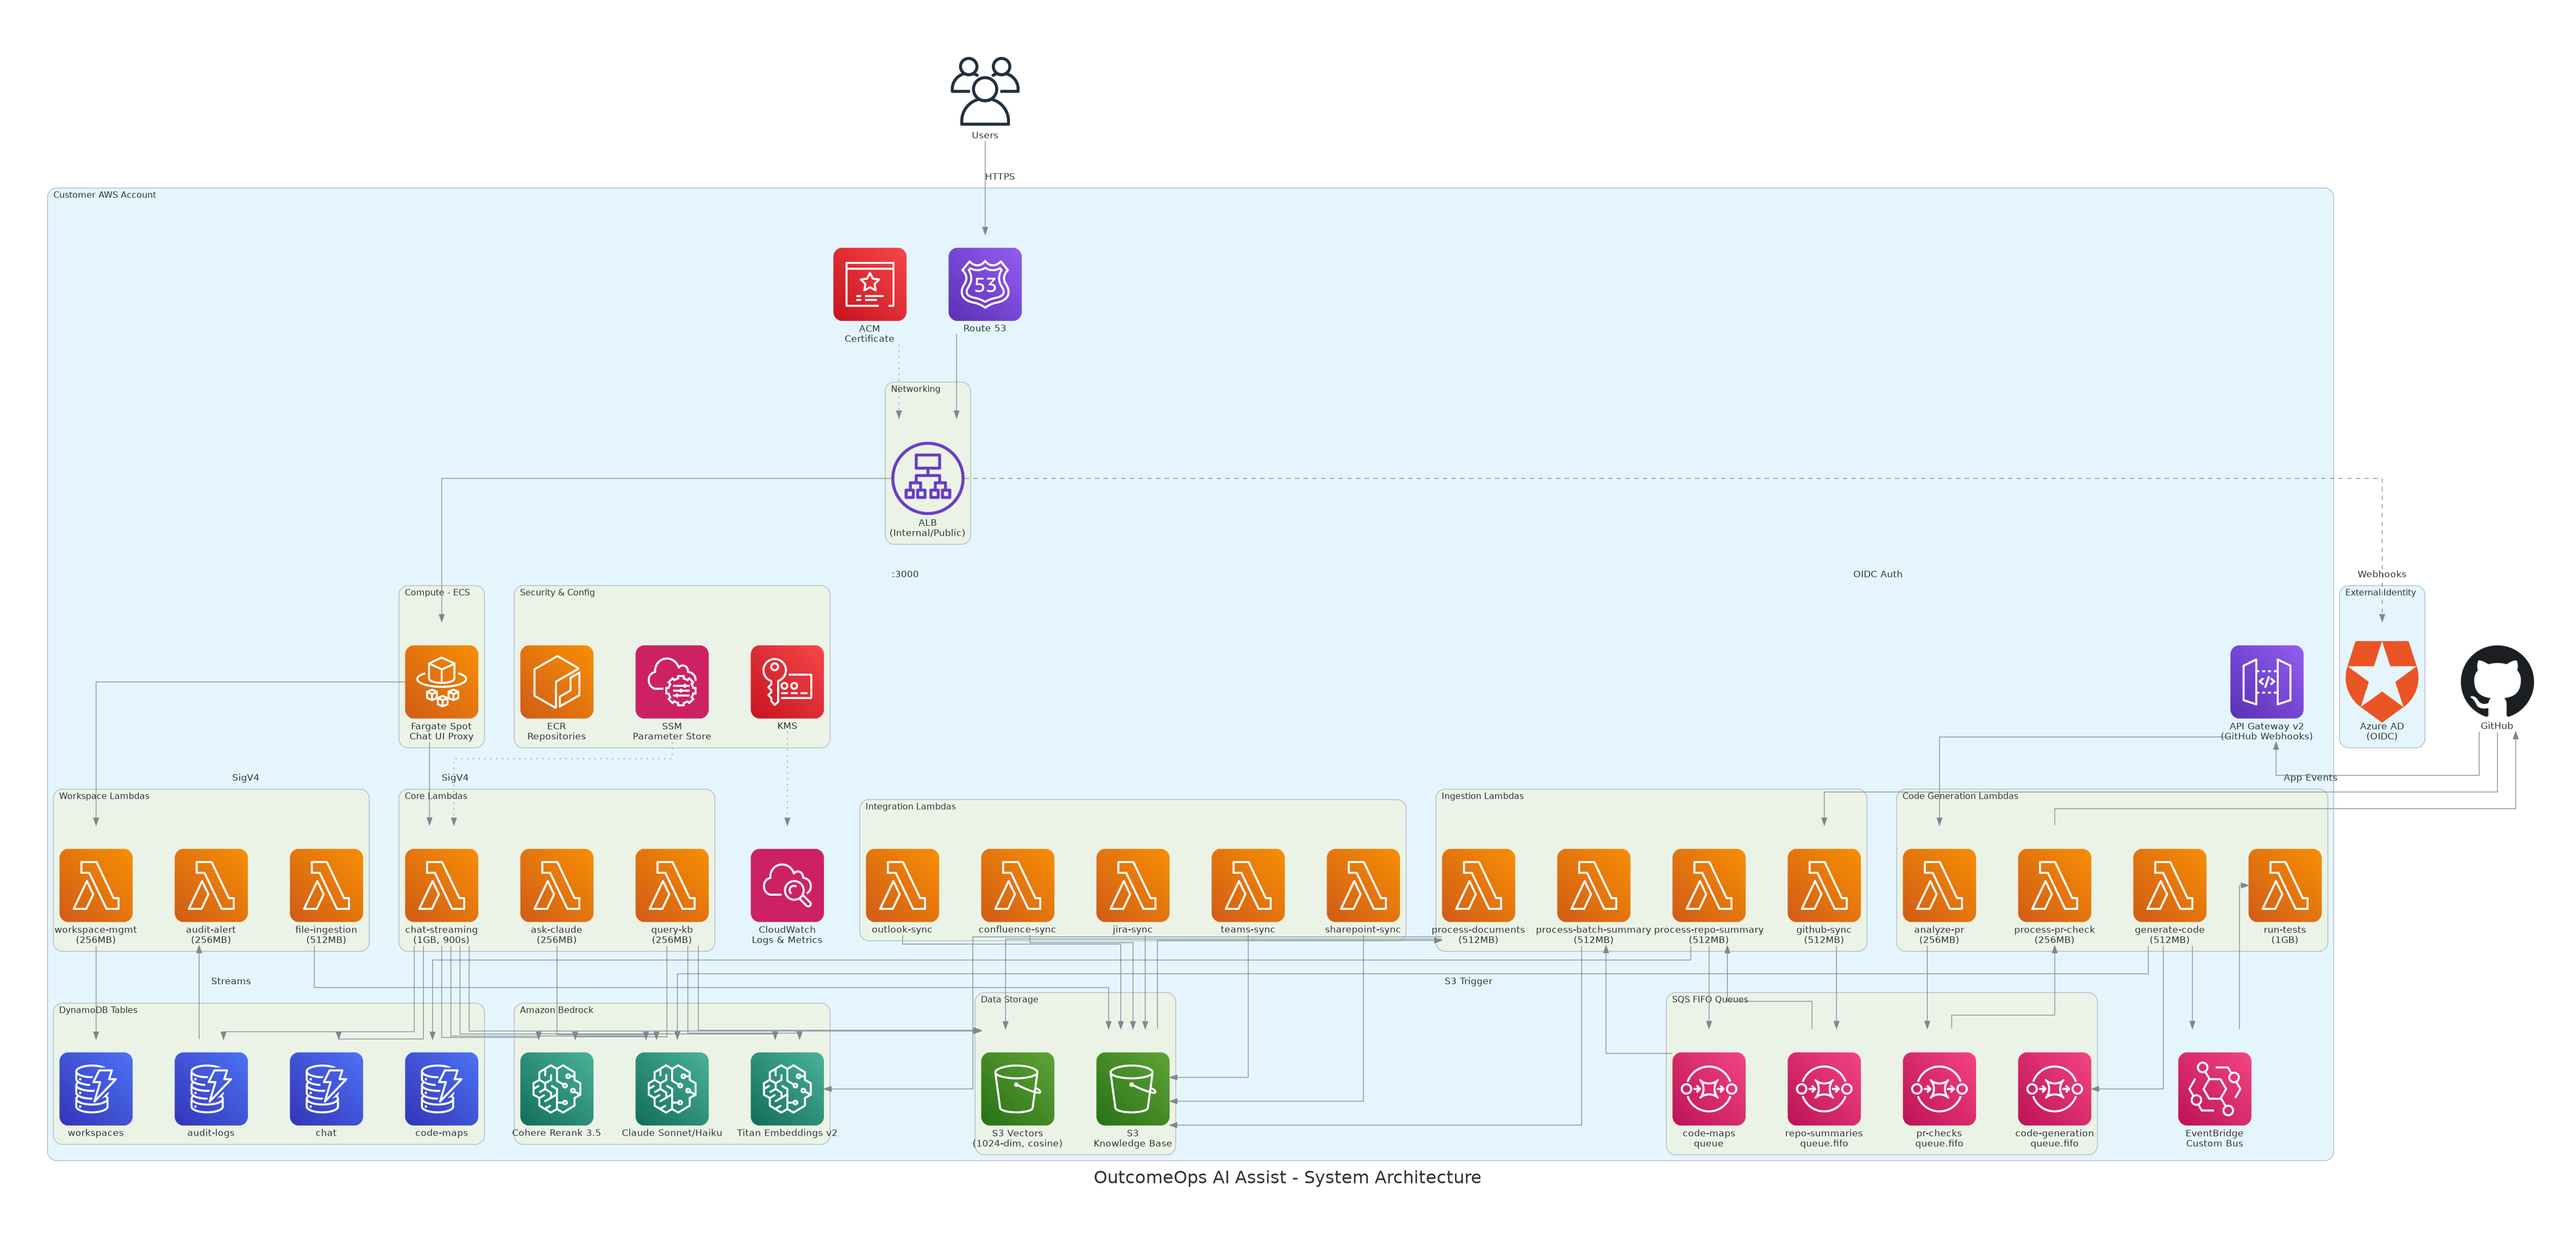
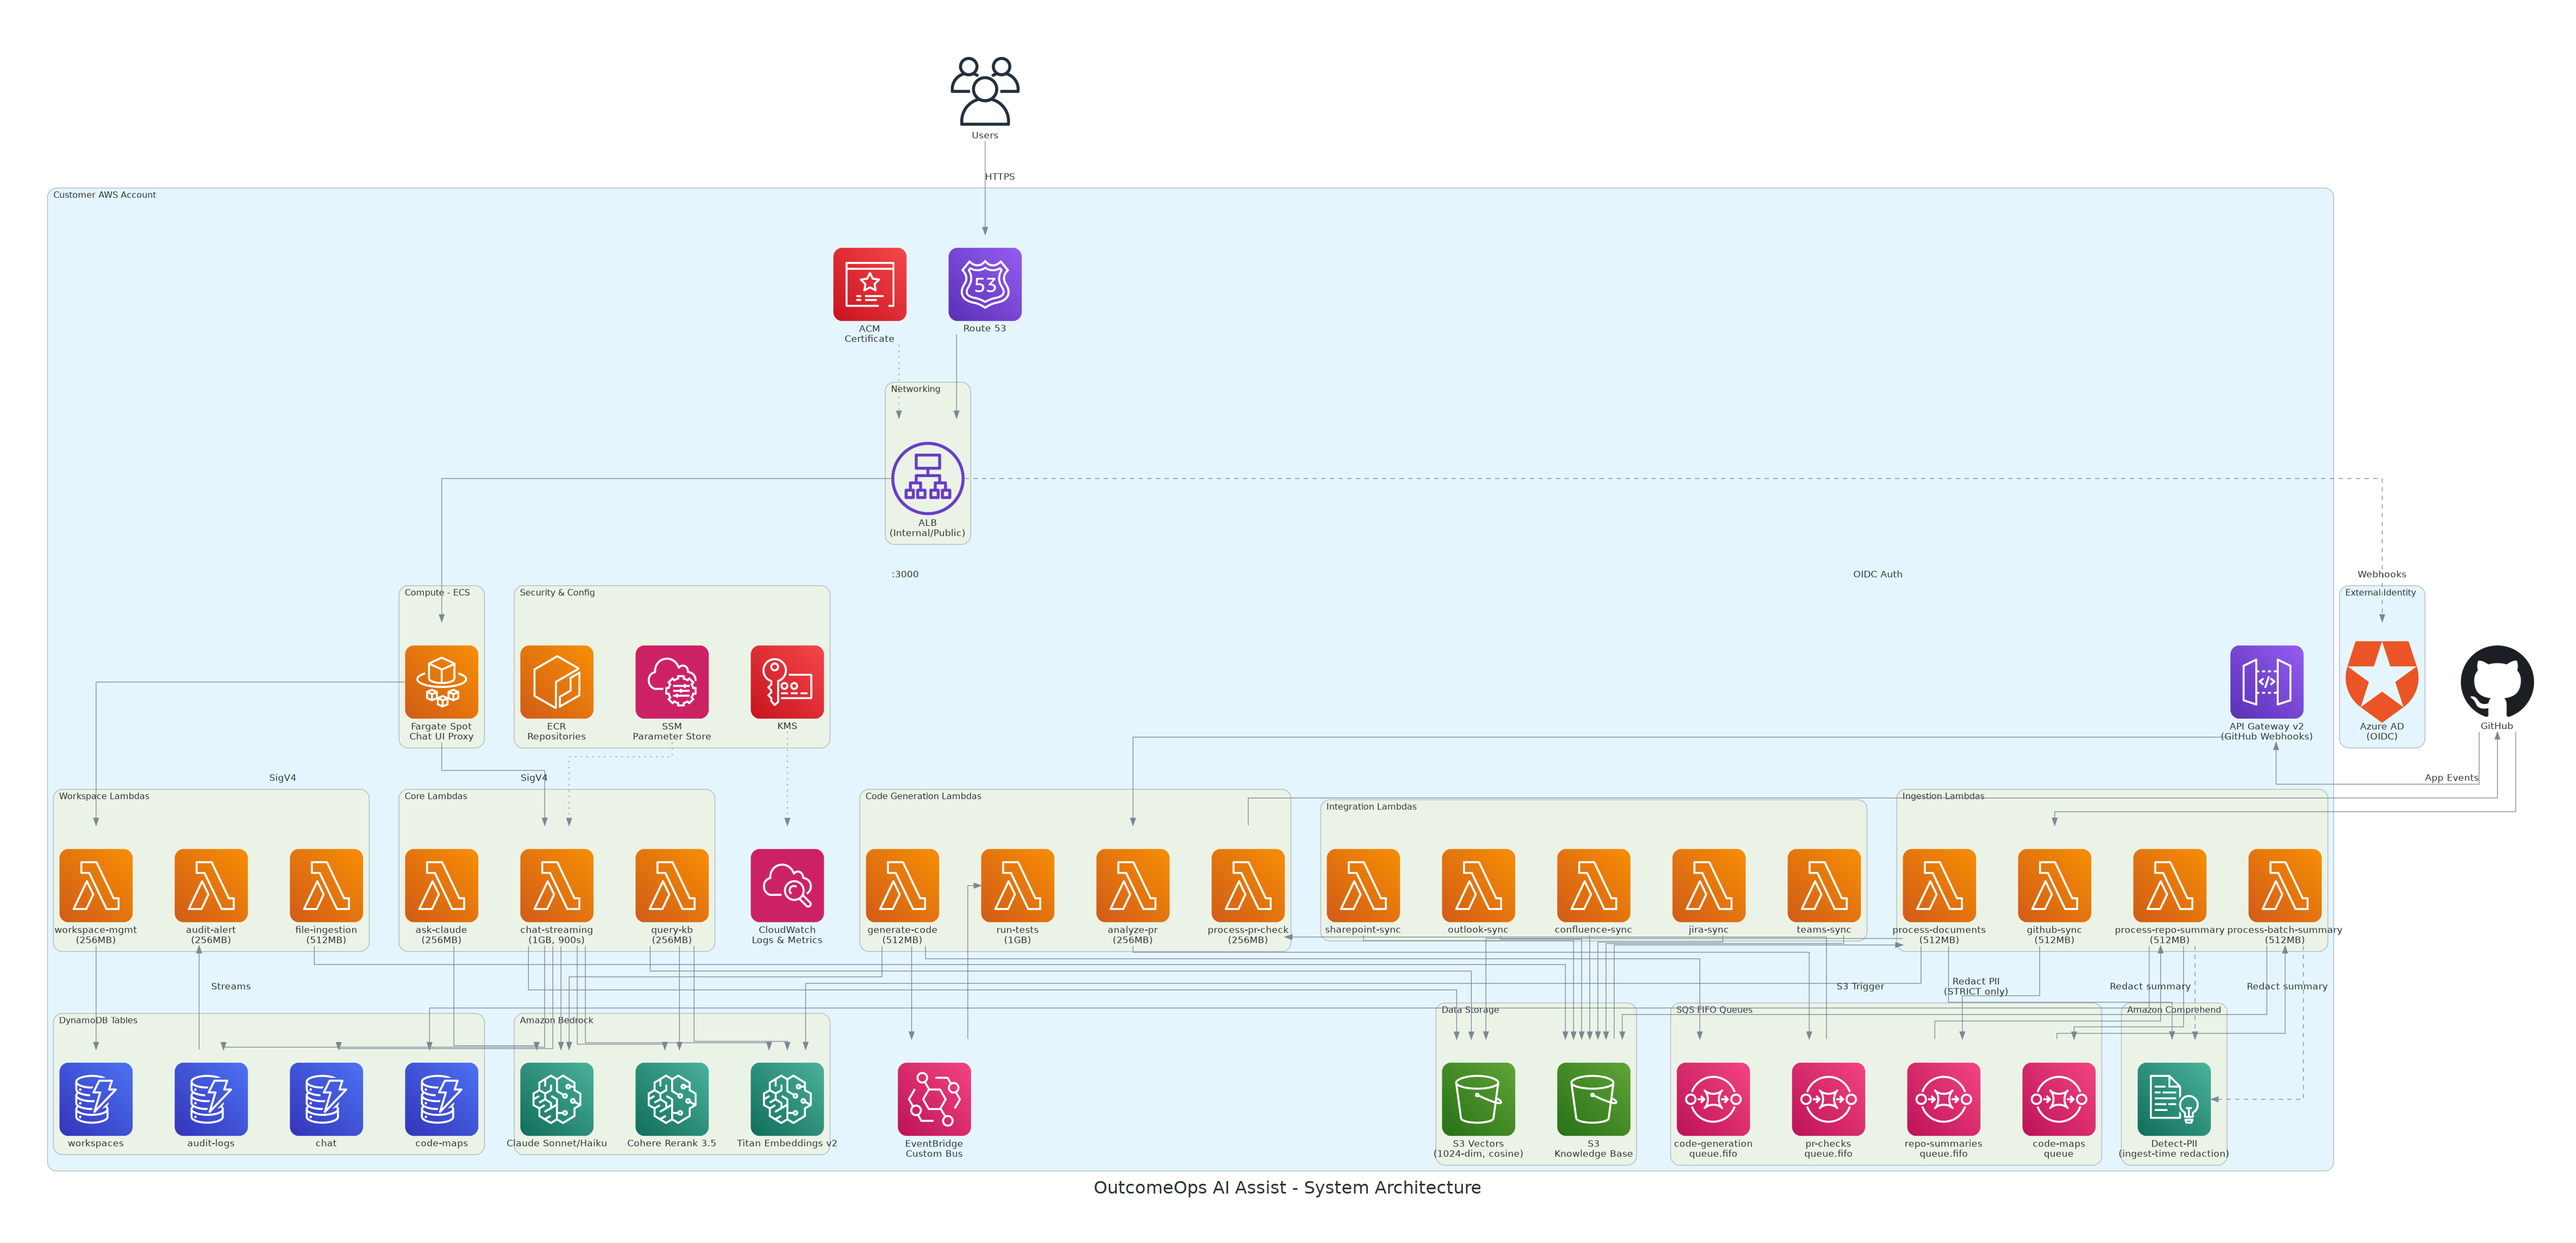
docs(diagrams): add Comprehend + new UI architecture diagram
PII redaction (chunk 05 of the merged feat/pii-redaction branch)
introduced an Amazon Comprehend dependency in the ingest path that
wasn't reflected in any of the architectural diagrams. Cohere Rerank
was already present.

- data_flow.py: add Comprehend to "1c. Document Processing"; show
  redaction edges from process-documents (solid) and from
  process-batch-summary / process-repo-summary (dashed, workspace-
  scoped only) flowing into Comprehend before Titan embedding.
- system_architecture.py: add an "Amazon Comprehend" cluster next to
  Bedrock; show redaction edges from the three ingest Lambdas.
- ui_architecture.py (new): internal request lifecycle for the UI
  tier. Picks up where ui_internal_alb / ui_external_alb_oidc leave
  off (those show how a user reaches the ALB; this shows what
  happens once they're inside). Covers ALB OIDC header injection,
  the Express SigV4 reverse proxy, the split between chat-streaming
  (SSE) and workspace-management (REST) Lambda Function URLs, and
  the AWS-internal services reached via PrivateLink VPC endpoints.

All three .py files re-rendered to .png.

diff --git a/diagrams/ui_architecture.py b/diagrams/ui_architecture.py
@@ -1,0 +1,142 @@
+"""
+OutcomeOps AI Assist - UI Internal Request Architecture
+
+Shows what happens INSIDE the UI tier on each request: ALB OIDC header
+injection, the Express SigV4 reverse proxy, and the split between the
+chat-streaming Lambda (SSE) and the workspace-management Lambda (REST).
+
+Companion to ui_internal_alb / ui_external_alb_oidc, which show how a
+user's HTTPS request reaches the ALB. This diagram picks up at the ALB
+and shows where the request goes from there.
+
+Generates: ui_architecture.png
+"""
+
+from diagrams import Diagram, Cluster, Edge
+from diagrams.aws.compute import Fargate, Lambda
+from diagrams.aws.network import ALB
+from diagrams.aws.database import Dynamodb
+from diagrams.aws.storage import S3
+from diagrams.aws.ml import Sagemaker, Comprehend
+from diagrams.aws.security import IAM
+from diagrams.saas.identity import Auth0
+from diagrams.onprem.client import Users
+
+graph_attr = {
+    "fontsize": "22",
+    "bgcolor": "white",
+    "pad": "0.6",
+    "splines": "ortho",
+    "nodesep": "0.6",
+    "ranksep": "0.9",
+}
+
+with Diagram(
+    "OutcomeOps AI Assist - UI Internal Request Architecture",
+    filename="ui_architecture",
+    outformat="png",
+    show=False,
+    direction="LR",
+    graph_attr=graph_attr,
+):
+    user = Users("Browser\n(authenticated)")
+    azure_ad = Auth0("Azure AD\n(OIDC)")
+
+    with Cluster("Customer AWS Account"):
+        with Cluster("VPC (Private Subnets)"):
+
+            with Cluster("ALB Layer"):
+                alb = ALB(
+                    "ALB\n"
+                    "1) OAuth handshake w/ Azure AD\n"
+                    "2) Issues x-amzn-oidc-data JWT\n"
+                    "(AWS-signed, not Microsoft-signed)"
+                )
+
+            with Cluster("ECS Fargate (UI Proxy)"):
+                react_spa = Fargate(
+                    "React SPA\n"
+                    "(static, served from /dist)"
+                )
+                express = Fargate(
+                    "Express server\n"
+                    "Decodes x-amzn-oidc-data\n"
+                    "SigV4-signs each /api/* call"
+                )
+                task_role = IAM(
+                    "Fargate Task Role\n"
+                    "lambda:InvokeFunctionUrl\n"
+                    "ssm:GetParameter\n"
+                    "kms:Decrypt"
+                )
+
+            with Cluster("Backend Lambdas (Function URLs, AWS_IAM auth)"):
+                chat_lambda = Lambda(
+                    "chat-streaming\n"
+                    "(SSE, 900s timeout)\n"
+                    "RAG + Bedrock streaming"
+                )
+                workspace_lambda = Lambda(
+                    "workspace-management\n"
+                    "(REST, LWA + FastAPI)\n"
+                    "CRUD, audit, MCP, billing"
+                )
+
+            with Cluster("AWS services (via PrivateLink VPC endpoints)"):
+                bedrock = Sagemaker(
+                    "Bedrock\nClaude / Titan / Cohere"
+                )
+                comprehend = Comprehend(
+                    "Comprehend\nDetect-PII\n(ingest-only)"
+                )
+                ddb = Dynamodb(
+                    "DynamoDB\nworkspaces, audit,\nchat, analytics"
+                )
+                s3_vectors = S3(
+                    "S3 Vectors\nRAG index"
+                )
+                s3_kb = S3(
+                    "S3 Knowledge Base\nuploaded docs"
+                )
+
+    # User → ALB
+    user >> Edge(label="HTTPS\n(corp DX/TGW)") >> alb
+    alb >> Edge(
+        label="OAuth redirect\n(token exchange + JWKS)",
+        style="dashed",
+    ) >> azure_ad
+
+    # ALB → Fargate
+    alb >> Edge(
+        label="x-amzn-oidc-data\nx-amzn-oidc-identity"
+    ) >> express
+    alb >> Edge(label="static assets") >> react_spa
+
+    # Express SigV4 → Lambda Function URLs
+    task_role >> Edge(style="dotted", label="assume role") >> express
+    express >> Edge(
+        label="SigV4 POST /chat\n(SSE pass-through)"
+    ) >> chat_lambda
+    express >> Edge(
+        label="SigV4 GET/POST/PUT/DELETE\n/api/*"
+    ) >> workspace_lambda
+
+    # Lambdas → AWS services
+    chat_lambda >> bedrock
+    chat_lambda >> s3_vectors
+    chat_lambda >> ddb
+    workspace_lambda >> ddb
+    workspace_lambda >> s3_kb
+    workspace_lambda >> Edge(
+        label="audit emit",
+        style="dashed",
+    ) >> ddb
+
+    # Comprehend is invoked by ingest Lambdas (process-documents,
+    # process-batch-summary, process-repo-summary), shown here as a
+    # platform service for completeness even though it's not on the
+    # chat or workspace-management hot path.
+    comprehend >> Edge(
+        label="invoked by ingest path\n(see data_flow diagram)",
+        style="dotted",
+    ) >> s3_kb

diff --git a/diagrams/data_flow.py b/diagrams/data_flow.py
@@ -10,7 +10,7 @@ from diagrams.aws.compute import Lambda
 from diagrams.aws.storage import S3
 from diagrams.aws.database import Dynamodb
 from diagrams.aws.integration import SQS, Eventbridge
-from diagrams.aws.ml import Sagemaker
+from diagrams.aws.ml import Sagemaker, Comprehend
 from diagrams.aws.network import ALB
 from diagrams.aws.compute import Fargate
 from diagrams.aws.network import APIGateway as Apigw
@@ -55,6 +55,7 @@ with Diagram(
 
         with Cluster("1c. Document Processing"):
             process_docs = Lambda("process-\ndocuments")
+            comprehend_pii = Comprehend("Comprehend\nDetect-PII\n(STRICT mode)")
             titan_embed = Sagemaker("Titan\nEmbeddings v2")
             s3_vectors = S3("S3 Vectors\n(1024-dim)")
 
@@ -77,7 +78,10 @@ with Diagram(
     gh_sync_std >> Edge(label="Direct upload") >> s3_kb
 
     s3_kb >> Edge(label="S3 ObjectCreated\ntrigger") >> process_docs
-    process_docs >> titan_embed
+    process_docs >> Edge(label="Redact PII\n(STRICT only)") >> comprehend_pii
+    comprehend_pii >> Edge(label="Redacted text") >> titan_embed
+    process_batch >> Edge(label="Redact summary\n(STRICT only)", style="dashed") >> comprehend_pii
+    process_repo >> Edge(label="Redact summary\n(STRICT only)", style="dashed") >> comprehend_pii
     titan_embed >> Edge(label="Embeddings") >> s3_vectors
 
     confluence >> file_ingest

diff --git a/diagrams/system_architecture.py b/diagrams/system_architecture.py
@@ -11,7 +11,7 @@ from diagrams.aws.network import ALB, Route53, APIGateway
 from diagrams.aws.database import Dynamodb
 from diagrams.aws.storage import S3
 from diagrams.aws.integration import SQS, Eventbridge
-from diagrams.aws.ml import Sagemaker
+from diagrams.aws.ml import Sagemaker, Comprehend
 from diagrams.aws.security import KMS, ACM
 from diagrams.aws.management import SSM, Cloudwatch
 from diagrams.saas.identity import Auth0
@@ -115,6 +115,9 @@ with Diagram(
             bedrock_titan = Sagemaker("Titan Embeddings v2")
             bedrock_rerank = Sagemaker("Cohere Rerank 3.5")
 
+        with Cluster("Amazon Comprehend"):
+            comprehend_pii = Comprehend("Detect-PII\n(ingest-time redaction)")
+
         # --- Security ---
         with Cluster("Security & Config"):
             kms = KMS("KMS")
@@ -168,8 +171,11 @@ with Diagram(
 
     # Document processing
     s3_kb >> Edge(label="S3 Trigger") >> process_docs
+    process_docs >> Edge(label="Redact PII\n(STRICT only)") >> comprehend_pii
     process_docs >> bedrock_titan
     process_docs >> s3_vectors
+    process_batch >> Edge(label="Redact summary", style="dashed") >> comprehend_pii
+    process_repo >> Edge(label="Redact summary", style="dashed") >> comprehend_pii
 
     # Event-driven automation
     generate_code >> eventbus
